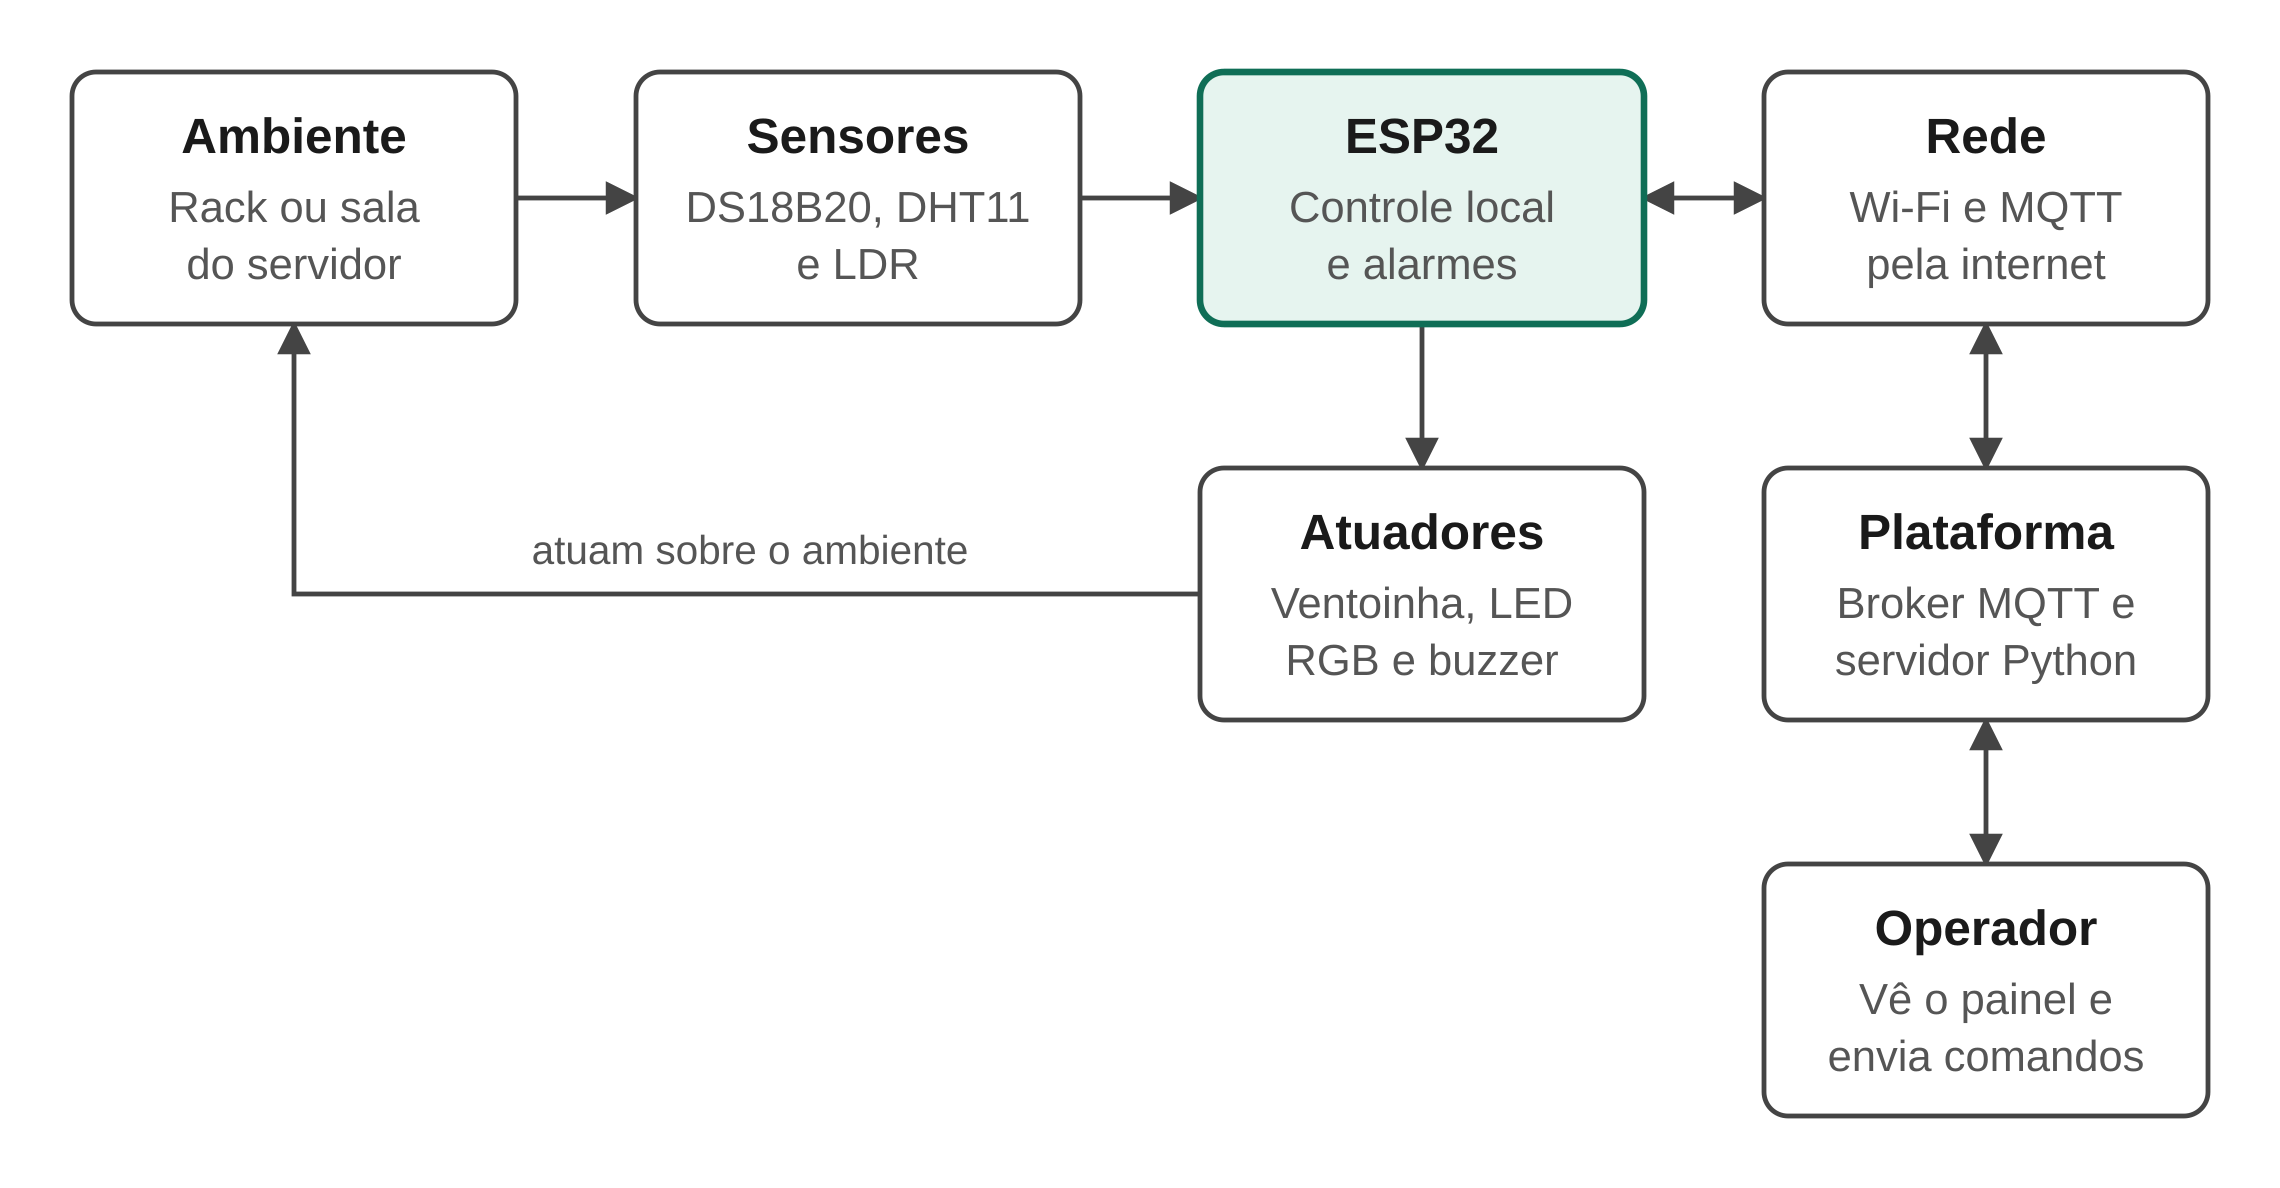
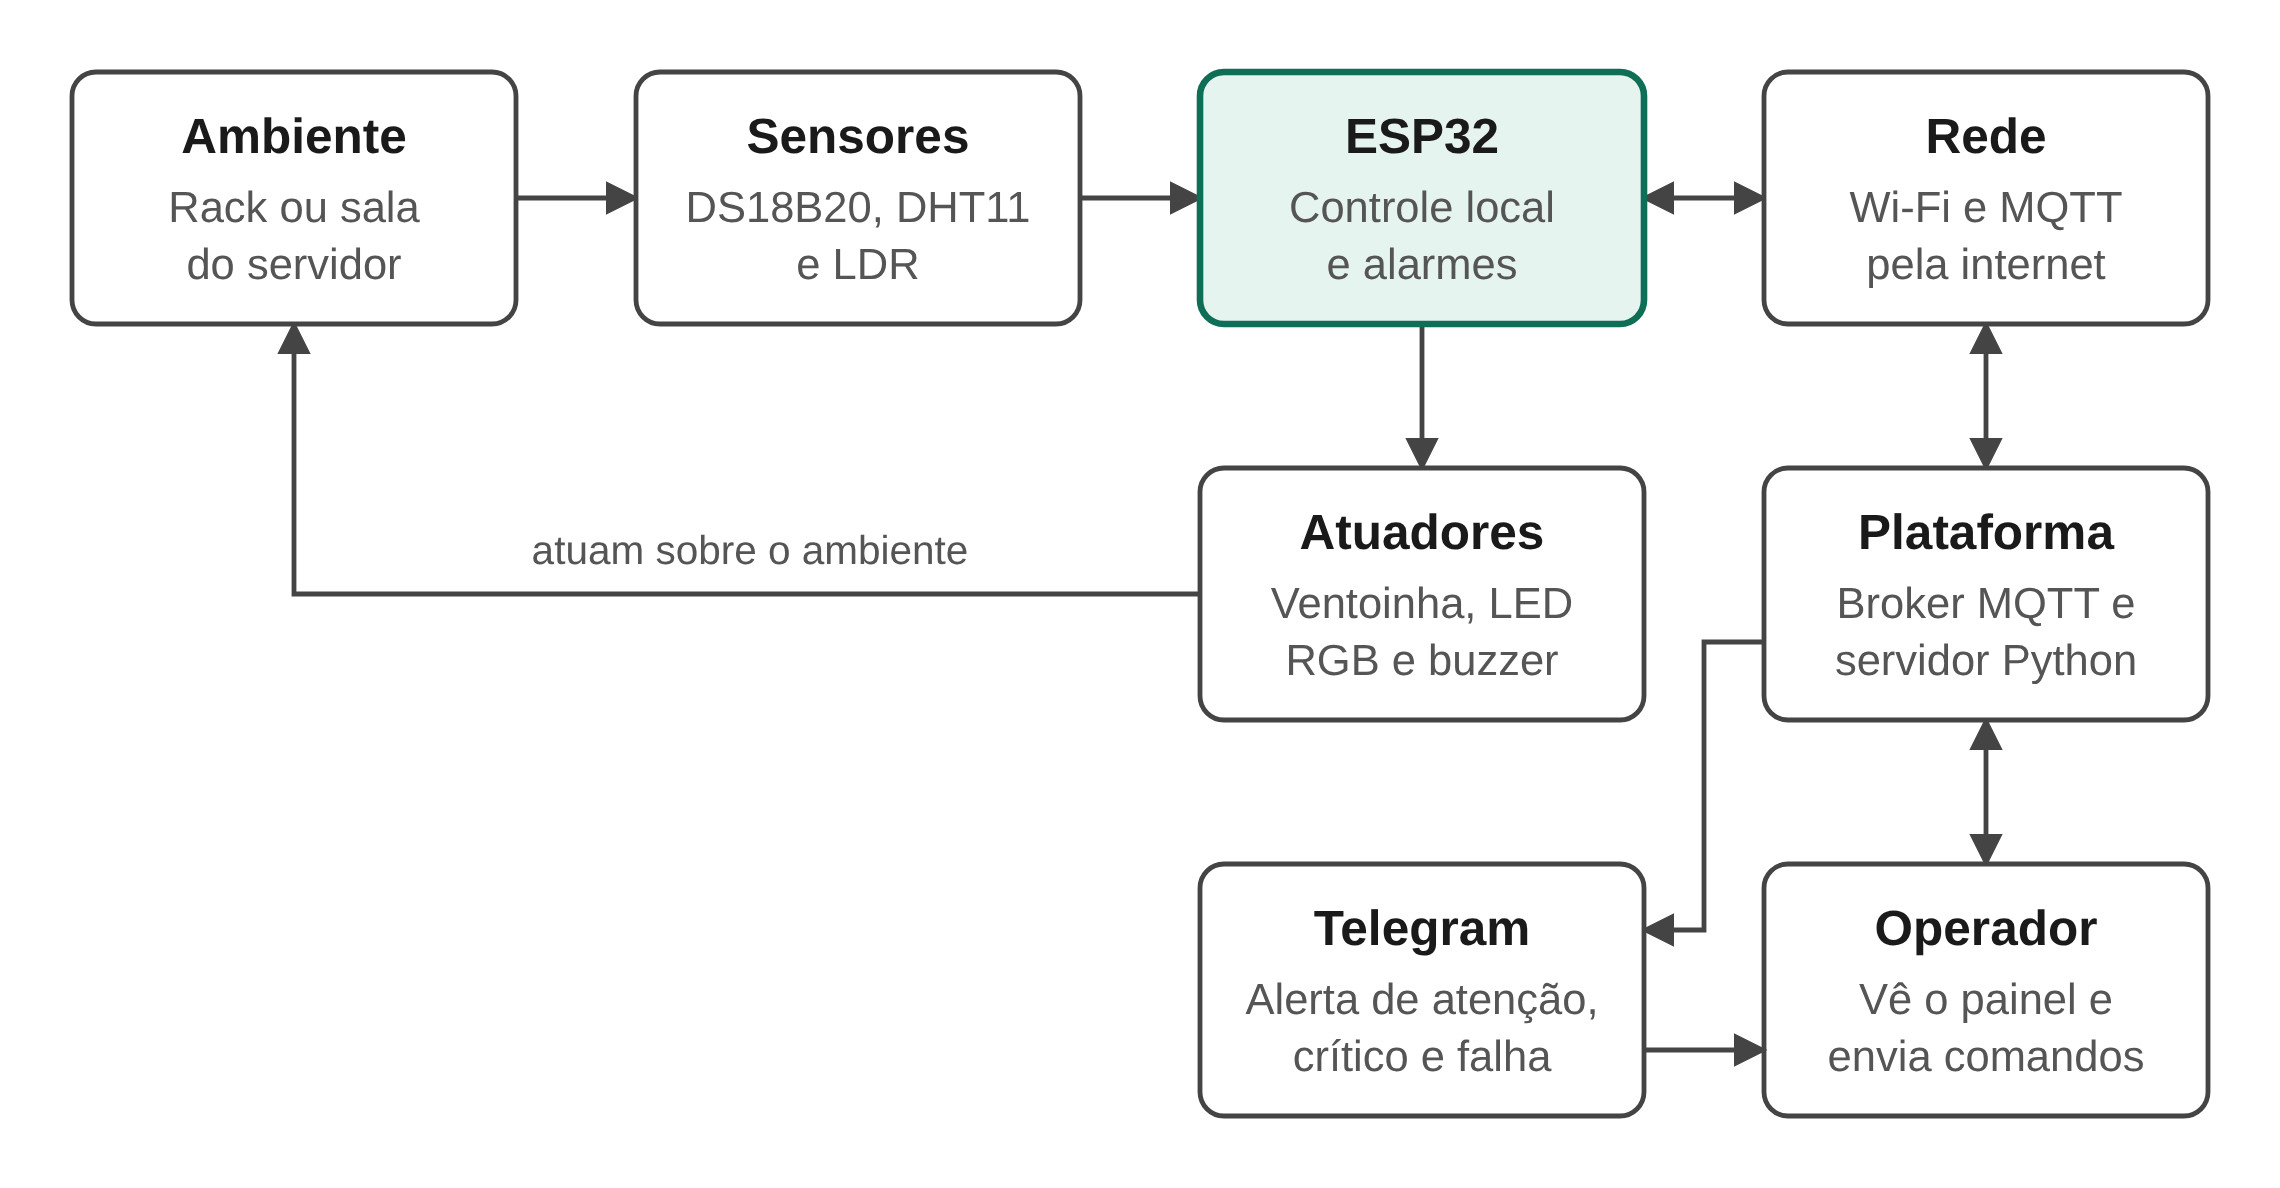
docs: documenta o Telegram e os limites gravados no ESP32

diff --git a/README.md b/README.md
@@ -31,7 +31,7 @@ O ESP32 lê os sensores, decide o estado e aciona as saídas sozinho. A rede só
 | crítico (`critical`) | a partir de 32 °C | vermelho | ligada | toca até ser silenciado |
 | falha (`fault`) | 3 leituras inválidas seguidas do sensor principal | vermelho piscando | ligada | desligado |
 
-A histerese é de 2 °C: de atenção o estado só volta para normal em 25 °C, e de crítico só volta para atenção em 30 °C. Os limites podem ser mudados pelo painel, entre 20 e 50 °C e com o crítico pelo menos 3 °C acima do de atenção. Ao reiniciar, o ESP32 volta aos padrões. O botão silencia o buzzer até o estado mudar. O LDR indica se a tampa está aberta.
+A histerese é de 2 °C: de atenção o estado só volta para normal em 25 °C, e de crítico só volta para atenção em 30 °C. Os limites podem ser mudados pelo painel, entre 20 e 50 °C e com o crítico pelo menos 3 °C acima do de atenção. O limite novo fica gravado no ESP32 e continua valendo depois de reiniciar. Quando ele muda, o estado é recalculado na hora. O botão silencia o buzzer até o estado mudar. O LDR indica se a tampa está aberta.
 
 Para gravar:
 
@@ -67,7 +67,7 @@ Broker público `broker.hivemq.com`, porta 1883. Todos os tópicos começam com 
 
 | Tópico | Direção | Conteúdo |
 |---|---|---|
-| `telemetry` | ESP32 para o servidor, a cada 5 s | JSON abaixo |
+| `telemetry` | ESP32 para o servidor, a cada 5 s e logo depois de uma mudança de estado ou de um comando | JSON abaixo |
 | `status` | ESP32 para o servidor | `online` ao conectar; `offline` publicado pelo broker (Last Will) quando a conexão cai |
 | `cmd/mode` | servidor para o ESP32 | `auto` ou `manual` |
 | `cmd/fan` | servidor para o ESP32 | `on` ou `off`. Só vale no modo manual e não desliga a ventoinha em crítico ou falha |
@@ -94,7 +94,33 @@ uvicorn app.main:app --host 127.0.0.1 --port 8000
 
 O painel fica em http://127.0.0.1:8000. Ele mostra a temperatura atual, as faixas e os limites em vigor, o histórico, a tendência, os eventos e os controles de modo, ventoinha, limites e alarme. As leituras ficam em `server/data/monitor.db`. A API está em `/api` (`/api/latest`, `/api/readings`, `/api/events`, `/api/indicators` e `/api/commands/...`).
 
-Configuração por variável de ambiente, todas opcionais: `MQTT_HOST`, `MQTT_PORT`, `TEAM_CODE`, `DEVICE_ID`, `DB_PATH` e `OFFLINE_AFTER_S` (segundos sem leitura até o painel mostrar offline, padrão 15).
+Configuração por variável de ambiente, todas opcionais: `MQTT_HOST`, `MQTT_PORT`, `TEAM_CODE`, `DEVICE_ID`, `DB_PATH`, `OFFLINE_AFTER_S` (segundos sem leitura até o painel mostrar offline, padrão 15), `TELEGRAM_TOKEN` e `TELEGRAM_CHAT_ID`.
+
+### Alertas no Telegram
+
+Quando o estado muda para atenção, crítico ou falha, o servidor manda uma mensagem por um bot do Telegram. Sem o token e o ID do chat, os alertas ficam desligados e o resto funciona normalmente.
+
+1. No Telegram, fale com o @BotFather, mande `/newbot` e copie o token que ele devolve.
+2. Abra a conversa com o bot novo e mande qualquer mensagem.
+3. Crie o arquivo `server/.env` (ele não vai para o git):
+
+   ```
+   TELEGRAM_TOKEN=token-do-botfather
+   TELEGRAM_CHAT_ID=
+   ```
+
+4. Descubra o ID do chat e preencha a segunda linha:
+
+   ```
+   cd server
+   set -a; . ./.env; set +a
+   curl -s "https://api.telegram.org/bot$TELEGRAM_TOKEN/getUpdates"
+   ```
+
+   O número fica em `"chat":{"id":...}`.
+5. Antes de subir o servidor, carregue o arquivo no mesmo terminal com `set -a; . ./.env; set +a`. O log mostra `Telegram alerts on`.
+
+A mesma mudança de estado só gera outra mensagem depois de 60 s, para uma mensagem forjada no broker público não lotar o chat.
 
 Testes:
 
